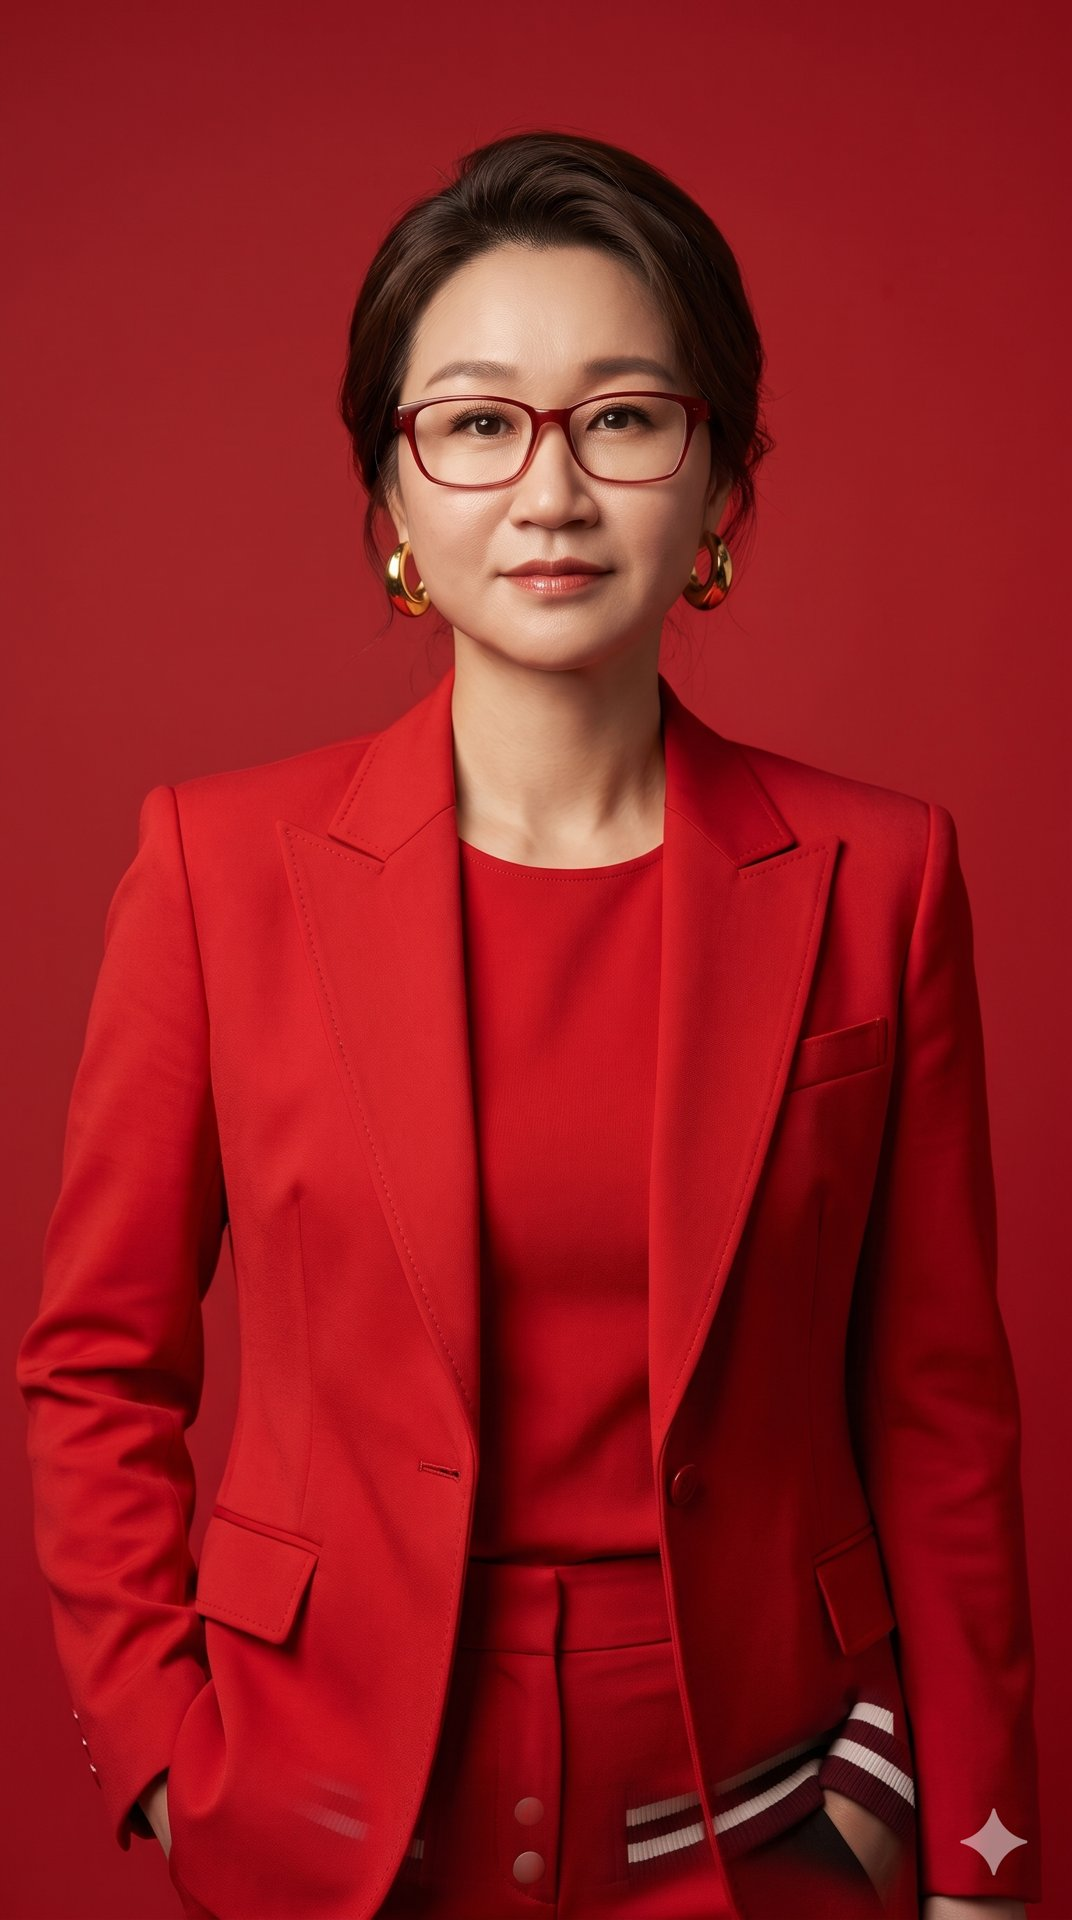
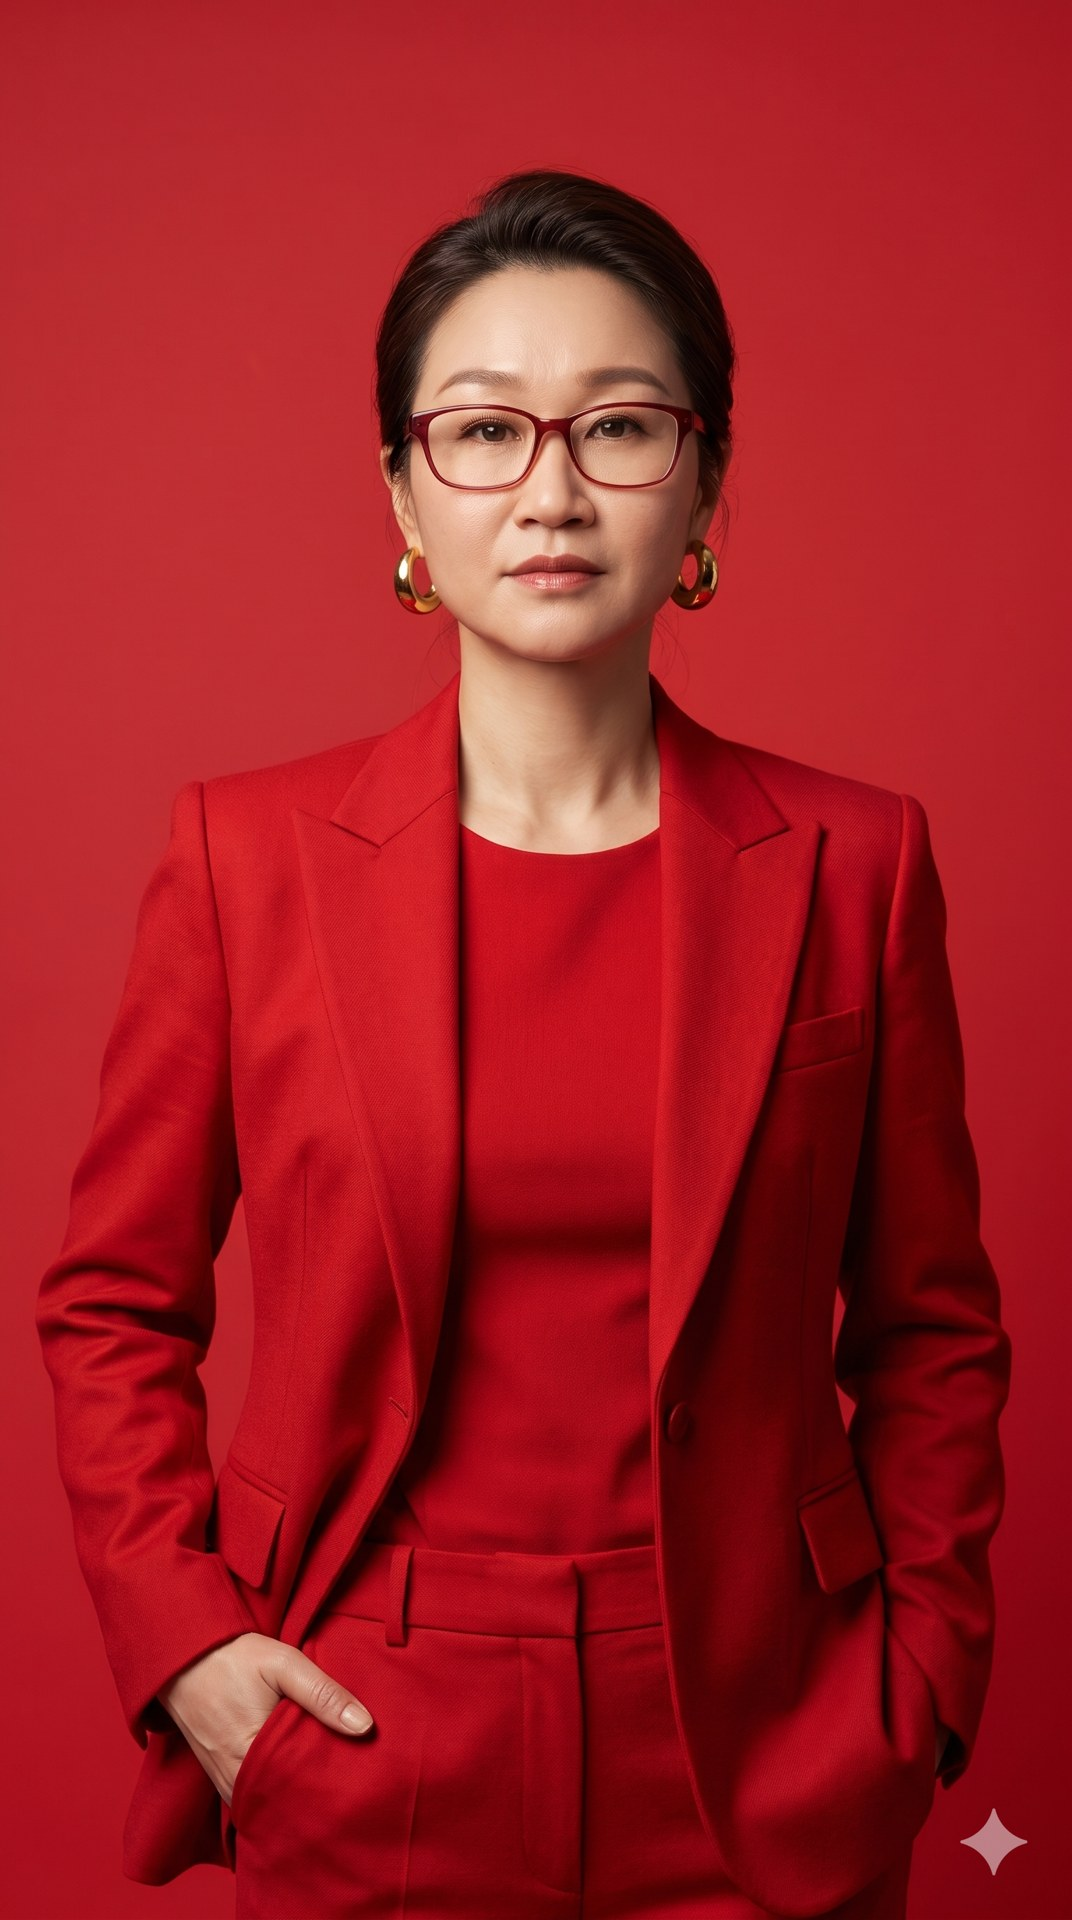
4번 페이지 스타일 2·3 예시 사진 교체
Claude-Session: https://claude.ai/code/session_01YJWjSodNCrhrw8V6dnokUU

diff --git a/p/004/index.html b/p/004/index.html
@@ -76,7 +76,7 @@ h2{font-family:var(--display);font-weight:400;font-size:21px;margin:12px 0 0;pad
 
   <h2>스타일 2 · 밝은 아이보리 프로필</h2>
   <figure>
-    <img src="photo2.jpg" width="1072" height="1920" alt="흰 배경 앞 아이보리 재킷을 입고 팔짱을 낀 채 환하게 웃는 프로필 사진" loading="lazy">
+    <img src="photo2.jpg?v=2" width="458" height="820" alt="흰 배경 앞 아이보리 재킷을 입고 팔짱을 낀 채 환하게 웃는 프로필 사진" loading="lazy">
     <figcaption>AI로 만든 예시 사진이에요. 홈페이지와 명함에 쓰기 좋은 밝은 프로필이에요.</figcaption>
   </figure>
   <div class="box" id="p2">업로드한 사진 속 인물을 주인공으로 사용. 사진 속 인물이 여성이면 여성, 남성이면 남성으로 표현하고 얼굴은 사진 속 인물 그대로 유지하며, 성별에 맞는 아래 옷을 입힘. 여성이면: 아이보리 싱글 재킷과 같은 톤의 이너 톱, 가는 골드 목걸이, 자연스럽게 볼륨을 살린 헤어. 남성이면: 라이트 그레이 정장과 하늘색 셔츠, 넥타이 없이 첫 단추만 푼 깔끔한 차림, 단정한 헤어. 인물이 팔짱을 가볍게 끼고 카메라를 향해 치아가 살짝 보이도록 밝고 친근하게 웃는 비즈니스 프로필 사진. 구도는 머리 위부터 허리 아래까지 담는 상반신 샷으로 카메라를 가깝게 당겨 얼굴이 화면에 크게 보이게, 얼굴에 초점을 맞추고 눈동자에 또렷한 캐치라이트, 맑고 화사한 피부 톤. 배경은 그림자 없이 깨끗한 순백색 스튜디오 배경. 정면의 큰 확산 조명으로 얼굴 전체가 고르게 밝고 산뜻한 하이키 조명. 홈페이지와 명함에 쓰기 좋은 깔끔하고 밝은 프로필 느낌, 초고해상도 4K 실사 스튜디오 사진, 피부결·속눈썹·머리카락 한 올·재킷 원단의 결까지 선명하게, 자연스러운 손가락과 신체 비율, 이미지 안에 글자·로고·워터마크 없음, 세로 9:16.</div>
@@ -85,7 +85,7 @@ h2{font-family:var(--display);font-weight:400;font-size:21px;margin:12px 0 0;pad
 
   <h2>스타일 3 · 레드 잡지 표지</h2>
   <figure>
-    <img src="photo3.jpg" width="1072" height="1920" alt="빨간 배경 앞 빨간 정장을 입고 당당하게 서 있는 잡지 표지풍 사진" loading="lazy">
+    <img src="photo3.jpg?v=2" width="1072" height="1920" alt="빨간 배경 앞 빨간 정장을 입고 당당하게 서 있는 잡지 표지풍 사진" loading="lazy">
     <figcaption>AI로 만든 예시 사진이에요. 잡지 표지처럼 강렬한 한 컷이에요.</figcaption>
   </figure>
   <div class="box" id="p3">업로드한 사진 속 인물을 주인공으로 사용. 사진 속 인물이 여성이면 여성, 남성이면 남성으로 표현하고 얼굴과 이목구비는 사진 속 인물 그대로 유지. 얼굴형, 눈·코·입 모양, 눈썹, 헤어라인은 업로드한 사진과 똑같이 유지하고 얼굴을 갸름하게 하거나 넓게 바꾸지 말 것. 업로드한 사진에서 안경을 쓰고 있으면 같은 테 모양과 색의 안경을 그대로 착용하고, 쓰고 있지 않으면 안경 없이 표현. 업로드한 사진에 있던 배지·브로치·명찰·배경 글자와 로고는 가져오지 말 것. 피부는 맑고 투명하게 화사한 톤으로, 주름과 잡티는 자연스럽게 완화해 실제보다 조금 더 젊고 생기 있어 보이게 표현하되 본인 얼굴 느낌과 피부결은 유지. 성별에 맞는 아래 옷을 입힘. 여성이면: 어깨선이 살아 있는 레드 팬츠 슈트 재킷과 같은 색 이너, 볼드한 골드 귀걸이, 깔끔하게 넘긴 헤어. 남성이면: 깊은 레드 정장과 같은 톤의 레드 터틀넥, 골드 시계, 깔끔하게 넘긴 헤어. 하이패션 잡지 표지 모델 컷. 인물이 한 손을 주머니에 넣고 턱을 살짝 든 채 카메라를 향해 당당하고 강렬하게 응시하는 표정. 구도는 머리 위부터 허리 아래까지 담는 표지용 샷으로 인물을 화면 중앙에 두고, 머리 위쪽에는 제호가 들어갈 여백을 남김. 배경은 옷과 같은 계열의 무늬 없는 선명한 레드 스튜디오 배경으로 색을 통일. 선명하고 균일한 정면 조명과 얇은 그림자. 대담하고 감각적인 컬러 화보 분위기, 초고해상도 4K 실사 스튜디오 사진, 속눈썹·머리카락 한 올·원단의 결과 색감까지 선명하게, 자연스러운 손가락과 신체 비율, 이미지 안에 글자·제호·숫자·바코드·로고·워터마크 없음, 세로 3:4.</div>
